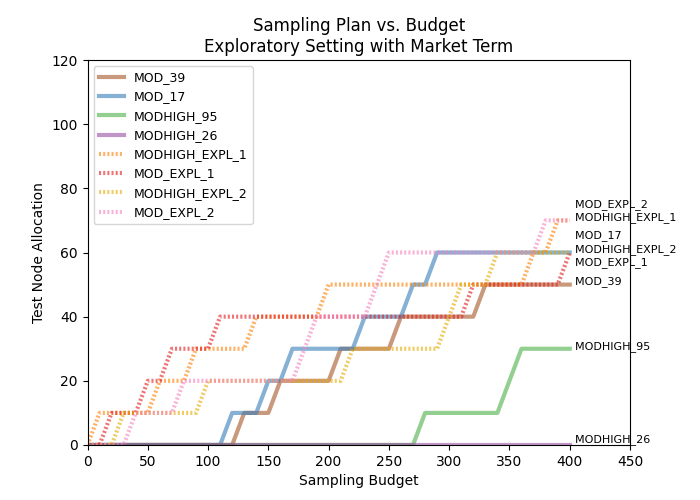
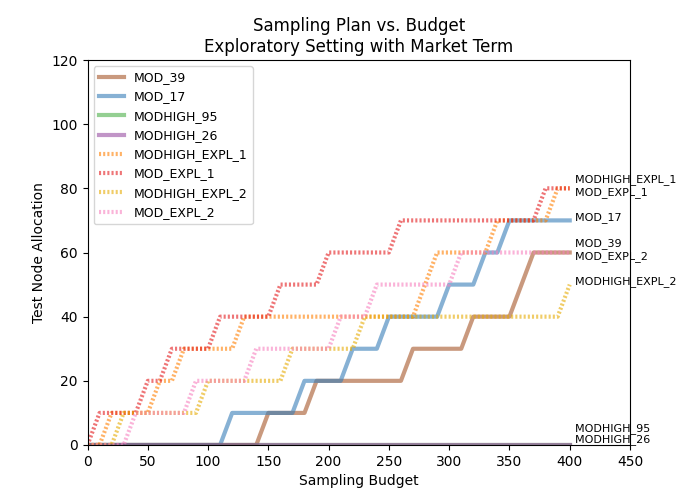
MS update

diff --git a/CASESTUDY_MStable.py b/CASESTUDY_MStable.py
@@ -18,13 +18,13 @@ import matplotlib.cm as cm
 testint = 10
 
 # Pull allocations and average utilities from files
-fam_alloc = np.load(os.path.join('casestudyoutputs', '13JUN', 'fam_alloc.npy'))
-fam_util_avg = np.load(os.path.join('casestudyoutputs', '13JUN', 'fam_util_avg.npy'))
+fam_alloc = np.load(os.path.join('casestudyoutputs', 'familiar', 'fam_alloc.npy'))
+fam_util_avg = np.load(os.path.join('casestudyoutputs', 'familiar', 'fam_util_avg.npy'))
 print('Base allocation at 90:\n'+str(fam_alloc[:,9]))
 print('Base allocation at 180:\n'+str(fam_alloc[:,18]))
-util_avg_arr = np.load(os.path.join('casestudyoutputs', '31MAY', 'util_avg_arr_fam.npy'))
-util_avg_unif_90, util_avg_unif_180 = util_avg_arr[1, 9:], util_avg_arr[1, 18:]
-util_avg_rudi_90, util_avg_rudi_180 = util_avg_arr[2, 9:], util_avg_arr[2, 18:]
+util_avg_arr = np.load(os.path.join('casestudyoutputs', 'familiar', 'util_avg_arr_fam.npy'))
+util_avg_unif_90, util_avg_unif_180 = util_avg_arr[0, 9:], util_avg_arr[0, 18:]
+util_avg_rudi_90, util_avg_rudi_180 = util_avg_arr[1, 9:], util_avg_arr[1, 18:]
 alloc90, alloc180 = fam_util_avg[9], fam_util_avg[18]
 kInd = next(x for x, val in enumerate(util_avg_unif_90) if val > alloc90)
 unif90saved = round((alloc90 - util_avg_unif_90[kInd - 1]) / (util_avg_unif_90[kInd] - util_avg_unif_90[kInd - 1]) *\
@@ -76,9 +76,9 @@ print('Saved vs Rudi at 180: '+str(rudi180saved))
 fam_MS_alloc = np.load(os.path.join('casestudyoutputs', 'modeling_sensitivity', 'fam_MS_priorvar_4_alloc.npy'))
 fam_MS_util_avg = np.load(os.path.join('casestudyoutputs', 'modeling_sensitivity', 'fam_MS_priorvar_4_util_avg.npy'))
 util_avg_rudi_90 = np.load(os.path.join('casestudyoutputs', 'modeling_sensitivity', 'fam_MS_priorvar_4_util_avg_rudi_90.npy'))
-util_avg_rudi_180 = np.load(os.path.join('casestudyoutputs', '13JUN', 'fam_MS_priorvar_4_util_avg_rudi_180.npy'))
+util_avg_rudi_180 = np.load(os.path.join('casestudyoutputs', 'modeling_sensitivity', 'fam_MS_priorvar_4_util_avg_rudi_180.npy'))
 util_avg_unif_90 = np.load(os.path.join('casestudyoutputs', 'modeling_sensitivity', 'fam_MS_priorvar_4_util_avg_unif_90.npy'))
-util_avg_unif_180 = np.load(os.path.join('casestudyoutputs', '13JUN', 'fam_MS_priorvar_4_util_avg_unif_180.npy'))
+util_avg_unif_180 = np.load(os.path.join('casestudyoutputs', 'modeling_sensitivity', 'fam_MS_priorvar_4_util_avg_unif_180.npy'))
 alloc90 = fam_MS_util_avg[9]
 alloc180 = fam_MS_util_avg[18]
 kInd = next(x for x, val in enumerate(util_avg_unif_90) if val > alloc90)
@@ -157,12 +157,12 @@ print('Saved vs Unif at 180: '+str(unif180saved))
 print('Saved vs Rudi at 180: '+str(rudi180saved))
 
 # Underestimation weight: 1
-fam_MS_alloc = np.load(os.path.join('casestudyoutputs', '13JUN', 'fam_MS_underestweight_1_alloc.npy'))
-fam_MS_util_avg = np.load(os.path.join('casestudyoutputs', '13JUN', 'fam_MS_underestweight_1_util_avg.npy'))
-util_avg_rudi_90 = np.load(os.path.join('casestudyoutputs', '13JUN', 'fam_MS_underestweight_1_util_avg_rudi_90.npy'))
-util_avg_rudi_180 = np.load(os.path.join('casestudyoutputs', '13JUN', 'fam_MS_underestweight_1_util_avg_rudi_180.npy'))
-util_avg_unif_90 = np.load(os.path.join('casestudyoutputs', '13JUN', 'fam_MS_underestweight_1_util_avg_unif_90.npy'))
-util_avg_unif_180 = np.load(os.path.join('casestudyoutputs', '13JUN', 'fam_MS_underestweight_1_util_avg_unif_180.npy'))
+fam_MS_alloc = np.load(os.path.join('casestudyoutputs', 'modeling_sensitivity', 'fam_MS_underestweight_1_alloc.npy'))
+fam_MS_util_avg = np.load(os.path.join('casestudyoutputs', 'modeling_sensitivity', 'fam_MS_underestweight_1_util_avg.npy'))
+util_avg_rudi_90 = np.load(os.path.join('casestudyoutputs', 'modeling_sensitivity', 'fam_MS_underestweight_1_util_avg_rudi_90.npy'))
+util_avg_rudi_180 = np.load(os.path.join('casestudyoutputs', 'modeling_sensitivity', 'fam_MS_underestweight_1_util_avg_rudi_180.npy'))
+util_avg_unif_90 = np.load(os.path.join('casestudyoutputs', 'modeling_sensitivity', 'fam_MS_underestweight_1_util_avg_unif_90.npy'))
+util_avg_unif_180 = np.load(os.path.join('casestudyoutputs', 'modeling_sensitivity', 'fam_MS_underestweight_1_util_avg_unif_180.npy'))
 alloc90 = fam_MS_util_avg[9]
 alloc180 = fam_MS_util_avg[18]
 kInd = next(x for x, val in enumerate(util_avg_unif_90) if val > alloc90)
@@ -185,12 +185,12 @@ print('Saved vs Unif at 180: '+str(unif180saved))
 print('Saved vs Rudi at 180: '+str(rudi180saved))
 
 # Underestimation weight: 10
-fam_MS_alloc = np.load(os.path.join('casestudyoutputs', '13JUN', 'fam_MS_underestweight_10_alloc.npy'))
-fam_MS_util_avg = np.load(os.path.join('casestudyoutputs', '13JUN', 'fam_MS_underestweight_10_util_avg.npy'))
-util_avg_rudi_90 = np.load(os.path.join('casestudyoutputs', '13JUN', 'fam_MS_underestweight_10_util_avg_rudi_90.npy'))
-util_avg_rudi_180 = np.load(os.path.join('casestudyoutputs', '13JUN', 'fam_MS_underestweight_10_util_avg_rudi_180.npy'))
-util_avg_unif_90 = np.load(os.path.join('casestudyoutputs', '13JUN', 'fam_MS_underestweight_10_util_avg_unif_90.npy'))
-util_avg_unif_180 = np.load(os.path.join('casestudyoutputs', '13JUN', 'fam_MS_underestweight_10_util_avg_unif_180.npy'))
+fam_MS_alloc = np.load(os.path.join('casestudyoutputs', 'modeling_sensitivity', 'fam_MS_underestweight_10_alloc.npy'))
+fam_MS_util_avg = np.load(os.path.join('casestudyoutputs', 'modeling_sensitivity', 'fam_MS_underestweight_10_util_avg.npy'))
+util_avg_rudi_90 = np.load(os.path.join('casestudyoutputs', 'modeling_sensitivity', 'fam_MS_underestweight_10_util_avg_rudi_90.npy'))
+util_avg_rudi_180 = np.load(os.path.join('casestudyoutputs', 'modeling_sensitivity', 'fam_MS_underestweight_10_util_avg_rudi_180.npy'))
+util_avg_unif_90 = np.load(os.path.join('casestudyoutputs', 'modeling_sensitivity', 'fam_MS_underestweight_10_util_avg_unif_90.npy'))
+util_avg_unif_180 = np.load(os.path.join('casestudyoutputs', 'modeling_sensitivity', 'fam_MS_underestweight_10_util_avg_unif_180.npy'))
 alloc90 = fam_MS_util_avg[9]
 alloc180 = fam_MS_util_avg[18]
 kInd = next(x for x, val in enumerate(util_avg_unif_90) if val > alloc90)

diff --git a/CASESTUDY_plotsforpaper.py b/CASESTUDY_plotsforpaper.py
@@ -538,7 +538,7 @@ def casestudyplots_exploratory_market():
 
     #######################
     # Allocation plot
-    allocArr = np.load(os.path.join('casestudyoutputs', '15JUN', 'expl_market_alloc.npy'))
+    allocArr = np.load(os.path.join('casestudyoutputs', 'exploratory', 'expl_market_alloc.npy'))
     colorsset = plt.get_cmap('Set1')
     colorsset2 = plt.get_cmap('Dark2')
     colorinds = [6, 1, 2, 3, 4, 0, 5, 7]
@@ -558,17 +558,23 @@ def casestudyplots_exploratory_market():
     allocMax = 120
     for tnind in range(numTN):
         delt = 4
-        if tnind == 7:
-            plt.text(testmax * 1.01, allocArr[tnind, -1] * testint + delt, labels[tnind].ljust(15),
+        if tnind == 4:
+            plt.text(testmax * 1.01, allocArr[tnind, -1] * testint + 0.5*delt, labels[tnind].ljust(15),
                      fontsize=labelSz - 1)
-        elif tnind == 1:
+        elif tnind == 2:
             plt.text(testmax * 1.01, allocArr[tnind, -1] * testint + 1.1*delt, labels[tnind].ljust(15),
                      fontsize=labelSz - 1)
         elif tnind == 5:
-            plt.text(testmax * 1.01, allocArr[tnind, -1] * testint - delt, labels[tnind].ljust(15),
+            plt.text(testmax * 1.01, allocArr[tnind, -1] * testint - 0.5*delt, labels[tnind].ljust(15),
                      fontsize=labelSz - 1)
         elif tnind == 3:
             plt.text(testmax * 1.01, allocArr[tnind, -1] * testint + 0.2 * delt, labels[tnind].ljust(15),
+                     fontsize=labelSz - 1)
+        elif tnind == 0:
+            plt.text(testmax * 1.01, allocArr[tnind, -1] * testint + 0.5 * delt, labels[tnind].ljust(15),
+                     fontsize=labelSz - 1)
+        elif tnind == 7:
+            plt.text(testmax * 1.01, allocArr[tnind, -1] * testint - 0.5 * delt, labels[tnind].ljust(15),
                      fontsize=labelSz - 1)
         else:
             plt.text(testmax * 1.01, allocArr[tnind, -1] * testint, labels[tnind].ljust(15), fontsize=labelSz - 1)
